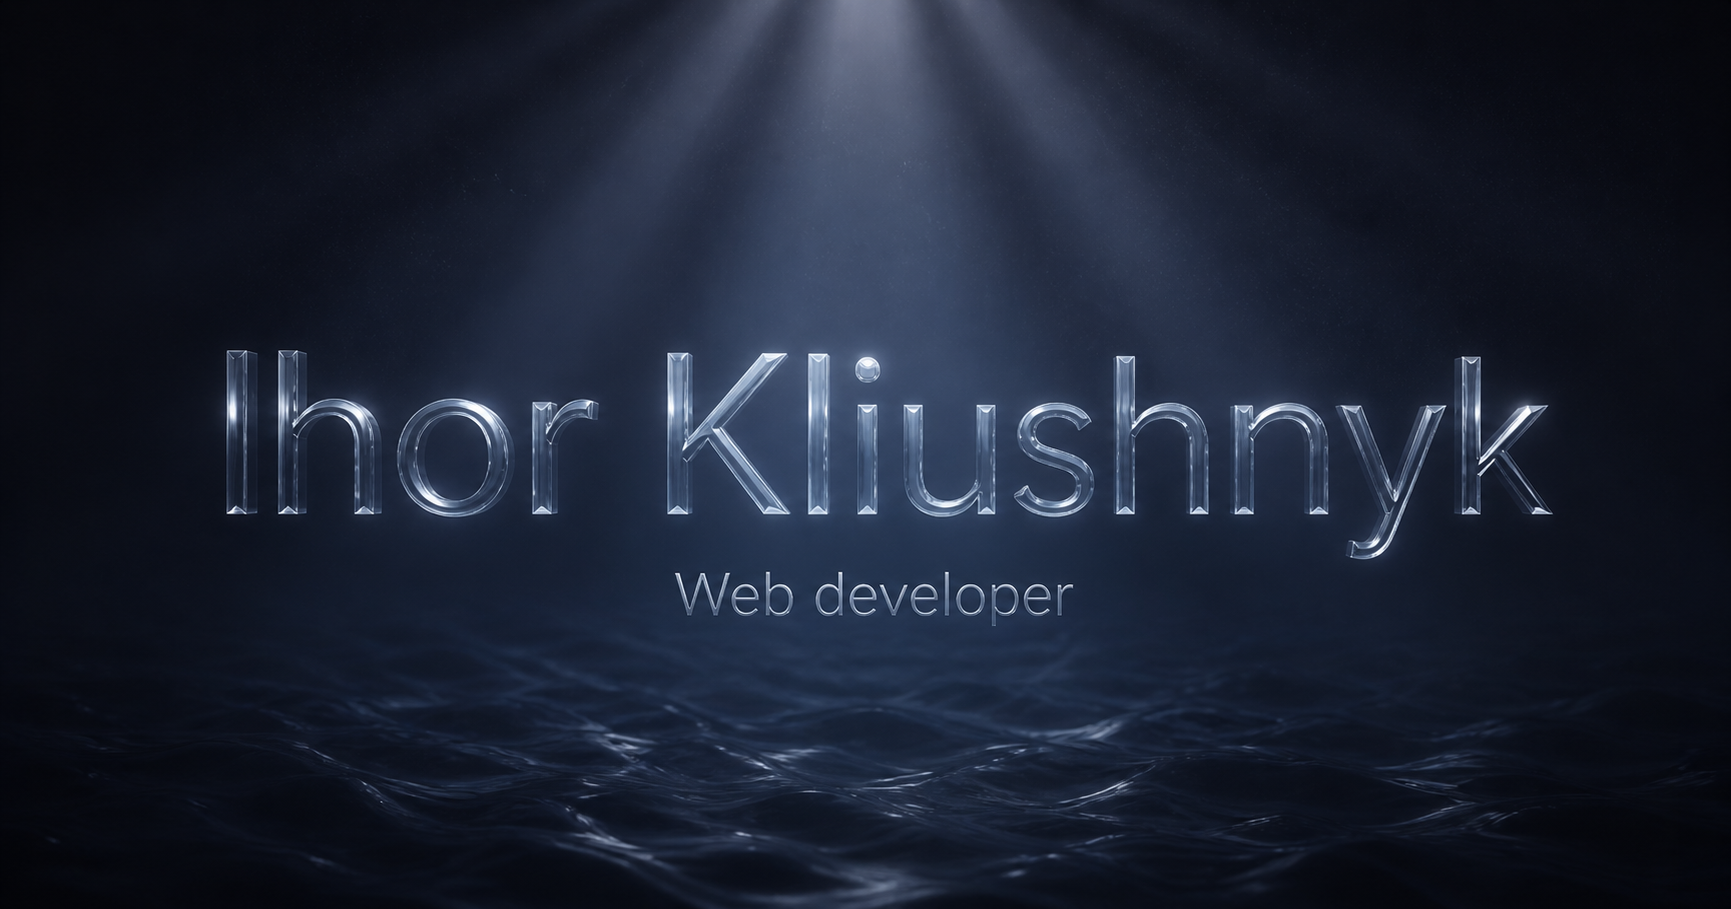
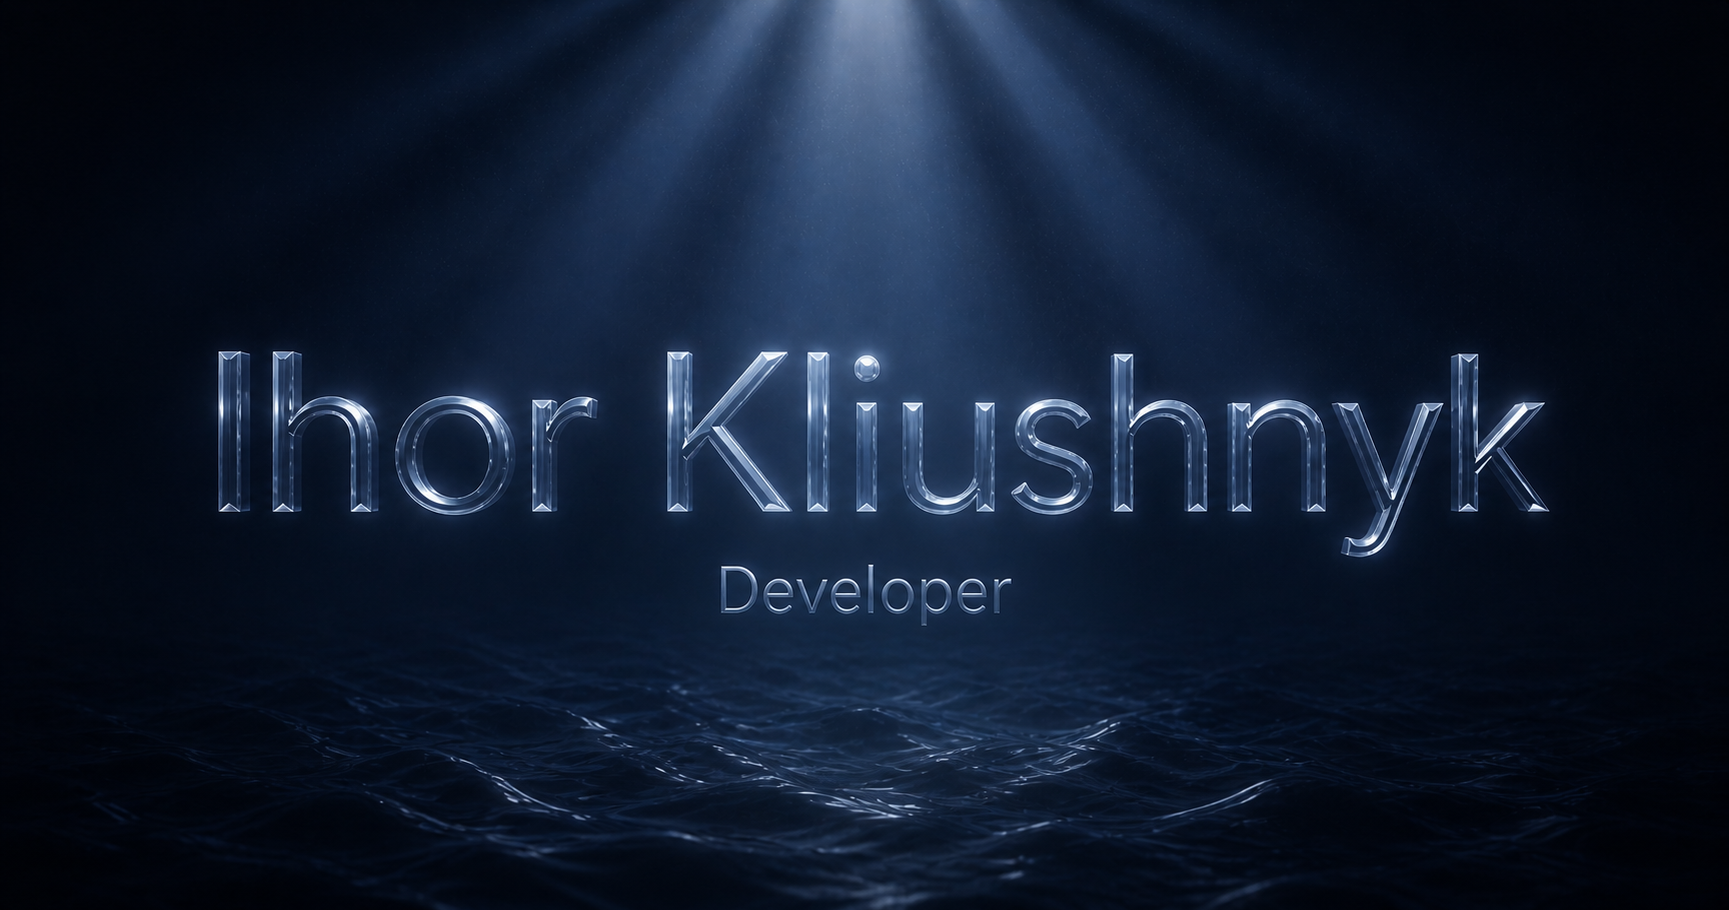
feat: update role descriptions and enhance styling for improved presentation

diff --git a/views/home/Home.module.css b/views/home/Home.module.css
@@ -8,13 +8,15 @@
   --content-max-width-viewport: 92vw;
   --content-gap: clamp(16px, 3vw, 28px);
 
-  --title-gap: clamp(12px, 1.2vw, 16px);
+  --title-gap: clamp(8px, 1vw, 12px);
+  --title-gap-large: clamp(4px, 0.6vw, 8px);
   --line-height-tight: 1.05;
-  --letter-spacing-tight: -0.02em;
+  --letter-spacing-tight: -0.03em;
 
-  --greeting-font-size: clamp(34px, 3.6vw, 40px);
-  --name-font-size: clamp(52px, 9.5vw, 108px);
-  --role-font-size: clamp(42px, 5.2vw, 58px);
+  --greeting-font-size: clamp(16px, 1.6vw, 20px);
+  --name-font-size: clamp(52px, 9.5vw, 116px);
+  --role-prefix-font-size: clamp(15px, 1.5vw, 18px);
+  --role-font-size: clamp(38px, 4.8vw, 58px);
 
   --navigation-gap: var(--space-2);
   --navigation-link-min-width: 120px;
@@ -66,6 +68,10 @@
 .greeting {
   font-weight: 500;
   font-size: var(--greeting-font-size);
+  text-transform: uppercase;
+  letter-spacing: 0.18em;
+  color: var(--foreground-muted);
+  opacity: 0.85;
 }
 
 .name {
@@ -96,10 +102,32 @@
   color: color-mix(in srgb, var(--foreground, #1f2937) 92%, #000);
 }
 
+:global(:root[data-theme="light"]) .greeting,
+:global(:root[data-theme="light"]) .rolePrefix {
+  color: color-mix(in srgb, var(--foreground, #1f2937) 55%, transparent);
+}
+
+@media (prefers-color-scheme: light) {
+  :global(:root:not([data-theme])) .greeting,
+  :global(:root:not([data-theme])) .rolePrefix {
+    color: color-mix(in srgb, var(--foreground, #1f2937) 55%, transparent);
+  }
+}
+
+.rolePrefix {
+  font-size: var(--role-prefix-font-size);
+  font-weight: 400;
+  color: var(--foreground-muted);
+  opacity: 0.8;
+  letter-spacing: 0.04em;
+  margin-top: var(--title-gap-large);
+}
+
 .role {
   color: var(--foreground-strong);
   font-weight: 700;
   font-size: var(--role-font-size);
+  letter-spacing: -0.02em;
   opacity: var(--role-opacity);
 }
 

diff --git a/shared/config/site.ts b/shared/config/site.ts
@@ -5,9 +5,9 @@ export const siteConfig = {
   name: "Ihor Kliushnyk",
   author: "Ihor Kliushnyk",
   description:
-    "Frontend Developer specializing in React, Next.js, and TypeScript — building fast, accessible, production-grade web applications.",
+    "Developer specializing in React, Next.js, and TypeScript — building fast, accessible, production-grade web applications.",
   keywords: [
-    "Frontend Developer",
+    "Developer",
     "React",
     "Next.js",
     "TypeScript",
@@ -23,9 +23,9 @@ export const siteConfig = {
   },
   pages: {
     home: {
-      title: "Ihor Kliushnyk — Frontend Developer",
+      title: "Ihor Kliushnyk — Developer",
       description:
-        "Frontend Developer specializing in React, Next.js, and TypeScript. Building performant, accessible web applications and modern UI.",
+        "Developer specializing in React, Next.js, and TypeScript. Building performant, accessible web applications and modern UI.",
     },
     projects: {
       title: "Projects",
@@ -38,11 +38,11 @@ export const siteConfig = {
     },
     employment: {
       description:
-        "Work history of Ihor Kliushnyk — Frontend Developer with hands-on experience in React, Next.js, TypeScript, and performance optimization.",
+        "Work history of Ihor Kliushnyk — Developer with hands-on experience in React, Next.js, TypeScript, and performance optimization.",
     },
   },
   og: {
     brand: "Ihor Kliushnyk",
-    subtitle: "Frontend Developer",
+    subtitle: "Developer",
   },
 } as const;

diff --git a/views/projects/components/ProjectCard/ProjectCard.module.css b/views/projects/components/ProjectCard/ProjectCard.module.css
@@ -12,10 +12,29 @@
 }
 
 .highlighted {
-  --highlight-glow: color-mix(in oklab, white 22%, transparent);
+  --highlight-glow: color-mix(in oklab, white 13%, transparent);
   box-shadow:
     0 -6px 16px 2px var(--highlight-glow),
     var(--shadow-md);
+  animation: highlightPulse 3.5s ease-in-out infinite;
+}
+
+@keyframes highlightPulse {
+  0%,
+  100% {
+    box-shadow: var(--shadow-md);
+  }
+  50% {
+    box-shadow:
+      0 -6px 16px 2px var(--highlight-glow),
+      var(--shadow-md);
+  }
+}
+
+@media (prefers-reduced-motion: reduce) {
+  .highlighted {
+    animation: none;
+  }
 }
 
 :root[data-theme="light"] .highlighted {

diff --git a/views/home/Home.tsx b/views/home/Home.tsx
@@ -80,6 +80,9 @@ export const HomeSection = () => {
           <motion.span className={styles.name} variants={titleLine}>
             {t("home.introduction")}
           </motion.span>
+          <motion.span className={styles.rolePrefix} variants={titleLine}>
+            {t("home.rolePrefix")}
+          </motion.span>
           <motion.span className={styles.role} variants={titleLine}>
             {t("home.role")}
           </motion.span>
